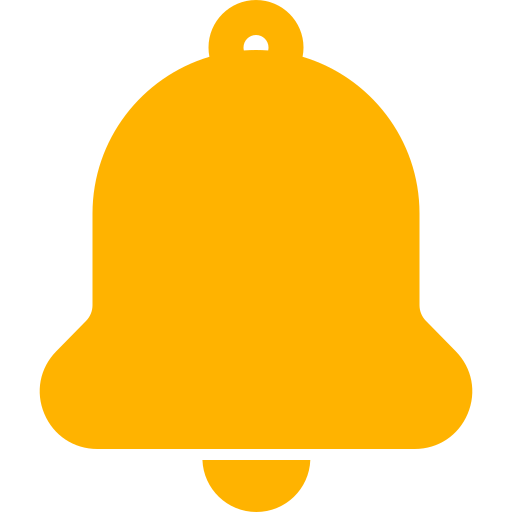
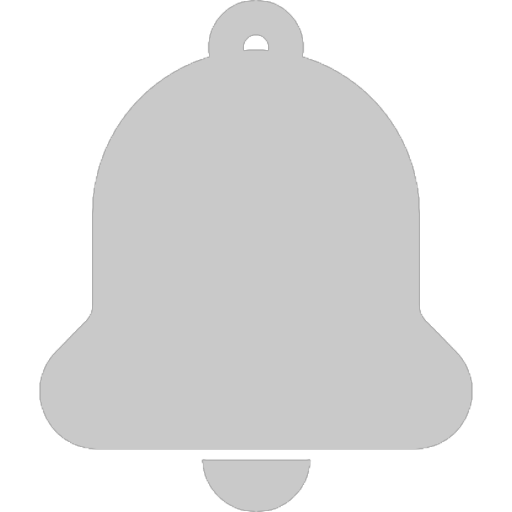
navbar adjustments

diff --git a/css/booking_details.css b/css/booking_details.css
@@ -1,4 +1,62 @@
-/* ===== BOOKING DETAILS PAGE STYLES ===== */
+/* ============================
+   GLOBAL NAVBAR FIX (MATCHES ALL PAGES)
+============================ */
+.navbar {
+    position: fixed;
+    top: 0;
+    left: 0;
+    width: 100%;
+    background: white;
+    padding: 15px 40px;
+    display: flex;
+    justify-content: space-between;
+    align-items: center;
+    box-shadow: 0 2px 10px rgba(0,0,0,0.08);
+    z-index: 999;
+}
+
+.logo {
+    font-size: 24px;
+    font-weight: 700;
+    font-family: 'Montserrat', sans-serif;
+}
+
+.logo .blue { color: #7B6B9E; }
+.logo .pink { color: #E38CB1; }
+
+.nav-icons {
+    display: flex;
+    align-items: center;
+    gap: 18px;
+}
+
+/* FIXED ICON STYLE — SAME FOR ALL PAGES */
+.nav-icon {
+    font-size: 22px;
+    cursor: pointer;
+    text-decoration: none;
+    color: #333;
+    background: none;
+    border: none;
+    padding: 0;
+    margin: 0;
+    border-radius: 0;
+    transition: transform 0.2s ease;
+}
+
+.nav-icon:hover {
+    transform: scale(1.2);
+}
+
+/* Force icon color to appear (fixes invisible bell issue) */
+.nav-icons i {
+    color: #333 !important;
+}
+
+
+/* ============================
+   BOOKING DETAILS PAGE STYLES
+============================ */
 
 /* Main Container */
 .booking-container {
@@ -72,8 +130,6 @@
     opacity: 0.9;
     text-transform: uppercase;
     letter-spacing: 1px;
-    position: relative;
-    z-index: 1;
 }
 
 .doctor-name {
@@ -81,17 +137,12 @@
     font-weight: 700;
     margin-bottom: 20px;
     line-height: 1.3;
-    position: relative;
-    z-index: 1;
 }
 
 .doctor-message {
     font-size: 14px;
     line-height: 1.6;
     opacity: 0.95;
-    font-weight: 400;
-    position: relative;
-    z-index: 1;
 }
 
 /* Booking Form Card */
@@ -123,7 +174,7 @@
     margin-bottom: 10px;
 }
 
-/* Button Group for Consultation Type */
+/* Button Group */
 .button-group {
     display: flex;
     gap: 10px;
@@ -255,7 +306,7 @@ textarea::placeholder {
     box-shadow: 0 5px 15px rgba(123, 107, 158, 0.3);
 }
 
-/* Responsive Design for mobile */
+/* Responsive Design */
 @media (max-width: 968px) {
     .booking-container {
         grid-template-columns: 1fr;

diff --git a/css/style.css b/css/style.css
@@ -19,11 +19,11 @@ header {
 .logo .blue { color: #89c8ff; }
 .logo .pink { color: #f7a5c8; }
 
-/* Use flex gap instead of margin for consistent spacing */
+/* Flex gap for spacing */
 nav {
   display: flex;
   align-items: center;
-  gap: 1.2rem; /* consistent spacing between links */
+  gap: 1.2rem;
 }
 
 nav a {
@@ -38,49 +38,53 @@ nav a:hover {
   font-weight: 600;
 }
 
-/* ===== ICON SECTION ===== */
+/* ===== ICONS ===== */
 .icons {
   display: flex;
   align-items: center;
   gap: 1rem;
 }
 
+/* base styles for all icon buttons */
 .icon-btn {
   width: 32px;
   height: 32px;
   border: none;
-  background-size: cover;
+  background-size: 60% 60%; /* icon size inside the circle */
   background-position: center;
   background-repeat: no-repeat;
-  background-color: #ffe6f1;
+  background-color: transparent; /* keep circle same as navbar if you want */
   cursor: pointer;
   padding: 0;
   border-radius: 50%;
-  filter: none;
-  transition: transform 0.3s ease, filter 0.3s ease;
+  transition: transform 0.25s ease, filter 0.25s ease;
+  display: inline-block;
 }
 
+/* hover: only scale the icon (not change color) */
 .icon-btn:hover {
-  transform: scale(1.1);
+  transform: scale(1.12);
 }
 
+/* ----- NOTIFICATION BUTTON ----- */
 .notification-btn {
-  width: 32px;
-  height: 32px;
-  background-color: #000; /* Icon color (black) */
-  -webkit-mask-image: url('../images/notification-bell.png');
-          mask-image: url('../images/notification-bell.png');
-  -webkit-mask-size: cover;
-          mask-size: cover;
-  -webkit-mask-repeat: no-repeat;
-          mask-repeat: no-repeat;
-  -webkit-mask-position: center;
-          mask-position: center;
+  background-image: url('../images/notification-bell.png');
+  background-size: 60% 60%;
+  background-position: center;
+  background-repeat: no-repeat;
+  background-color: transparent;
 }
 
 .profile-btn {
   background-image: url('../images/user.png');
+  background-size: cover;
+  background-position: center;
   border-radius: 50%;
+}
+
+.notification-btn,
+.icons .icon-btn {
+  background-color: transparent !important;
 }
 
 /* ===== FOOTER ===== */

diff --git a/booking_details.html b/booking_details.html
@@ -13,20 +13,22 @@
 </head>
 
 <body>
-    <!-- ===== Navbar ===== -->
+    <!-- ===== NAVBAR (Updated to Button Icons) ===== -->
     <header>
         <div class="logo">
             <span class="blue">Medi</span><span class="pink">Ko</span>
         </div>
+
         <nav>
             <a href="index.html">Home</a>
             <a href="list_of_doctors.html" class="active">Book</a>
             <a href="history.html">History</a>
             <a href="aboutus.html">About Us</a>
         </nav>
+
         <div class="icons">
-            <img src="images/notification-bell.png" alt="Notifications" class="icon notification">
-            <img src="images/user.png" alt="Profile" class="icon profile">
+            <button class="icon-btn notification-btn"></button>
+            <button class="icon-btn profile-btn"></button>
         </div>
     </header>
 
@@ -39,10 +41,8 @@
             </div>
             <h3 id="doctorSpecialty" class="doctor-specialty"></h3>
             <h2 id="doctorName" class="doctor-name"></h2>
-            <p id="doctorMessage" class="doctor-message">
-            </p>
+            <p id="doctorMessage" class="doctor-message"></p>
         </div>
-
 
         <!-- Booking Form -->
         <div class="booking-form-card">

diff --git a/aboutus.html b/aboutus.html
@@ -30,10 +30,14 @@
   </nav>
 
   <div class="icons">
-    <button class="icon-btn notification-btn"></button>
-    <button class="icon-btn profile-btn"></button>
+    <!-- notification button: decorative icon but still accessible -->
+    <button class="icon-btn notification-btn" aria-label="Notifications" title="Notifications"></button>
+
+    <!-- profile button: uses background-image -->
+    <button class="icon-btn profile-btn" aria-label="Profile" title="Profile"></button>
   </div>
 </header>
+
 
 <!-- ===== ABOUT HEADER ===== -->
 <section class="about-header">
